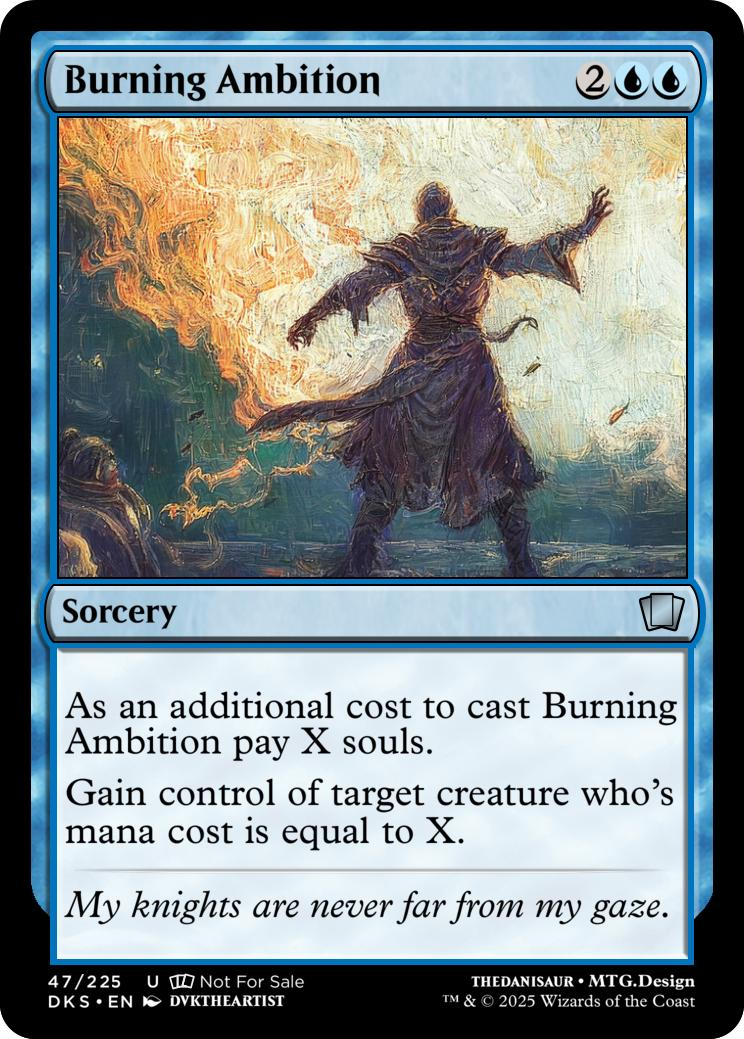
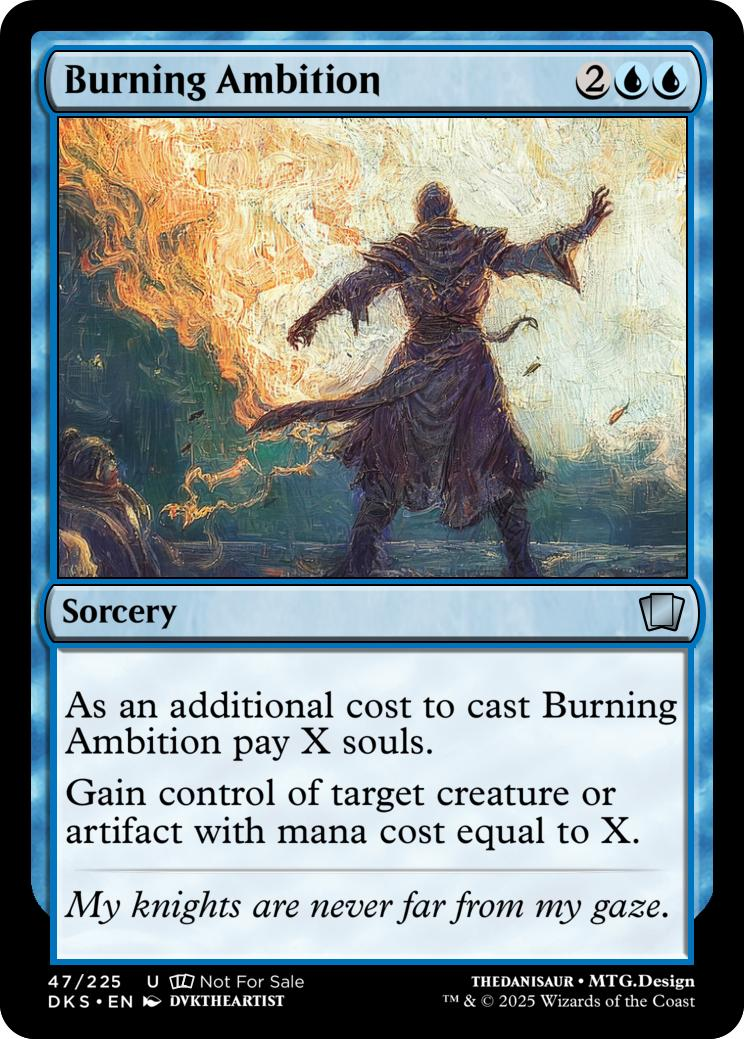
Add artifact hate to Pesky Mosquito, Ent, Iron Golem, and Burning Ambition

diff --git a/README.md b/README.md
@@ -99,9 +99,9 @@ Color Distribution
 
 Rarity Distribution
 ```
-100 common
+101 common
 62 uncommon
-45 rare
+44 rare
 18 mythic
 ```
 
